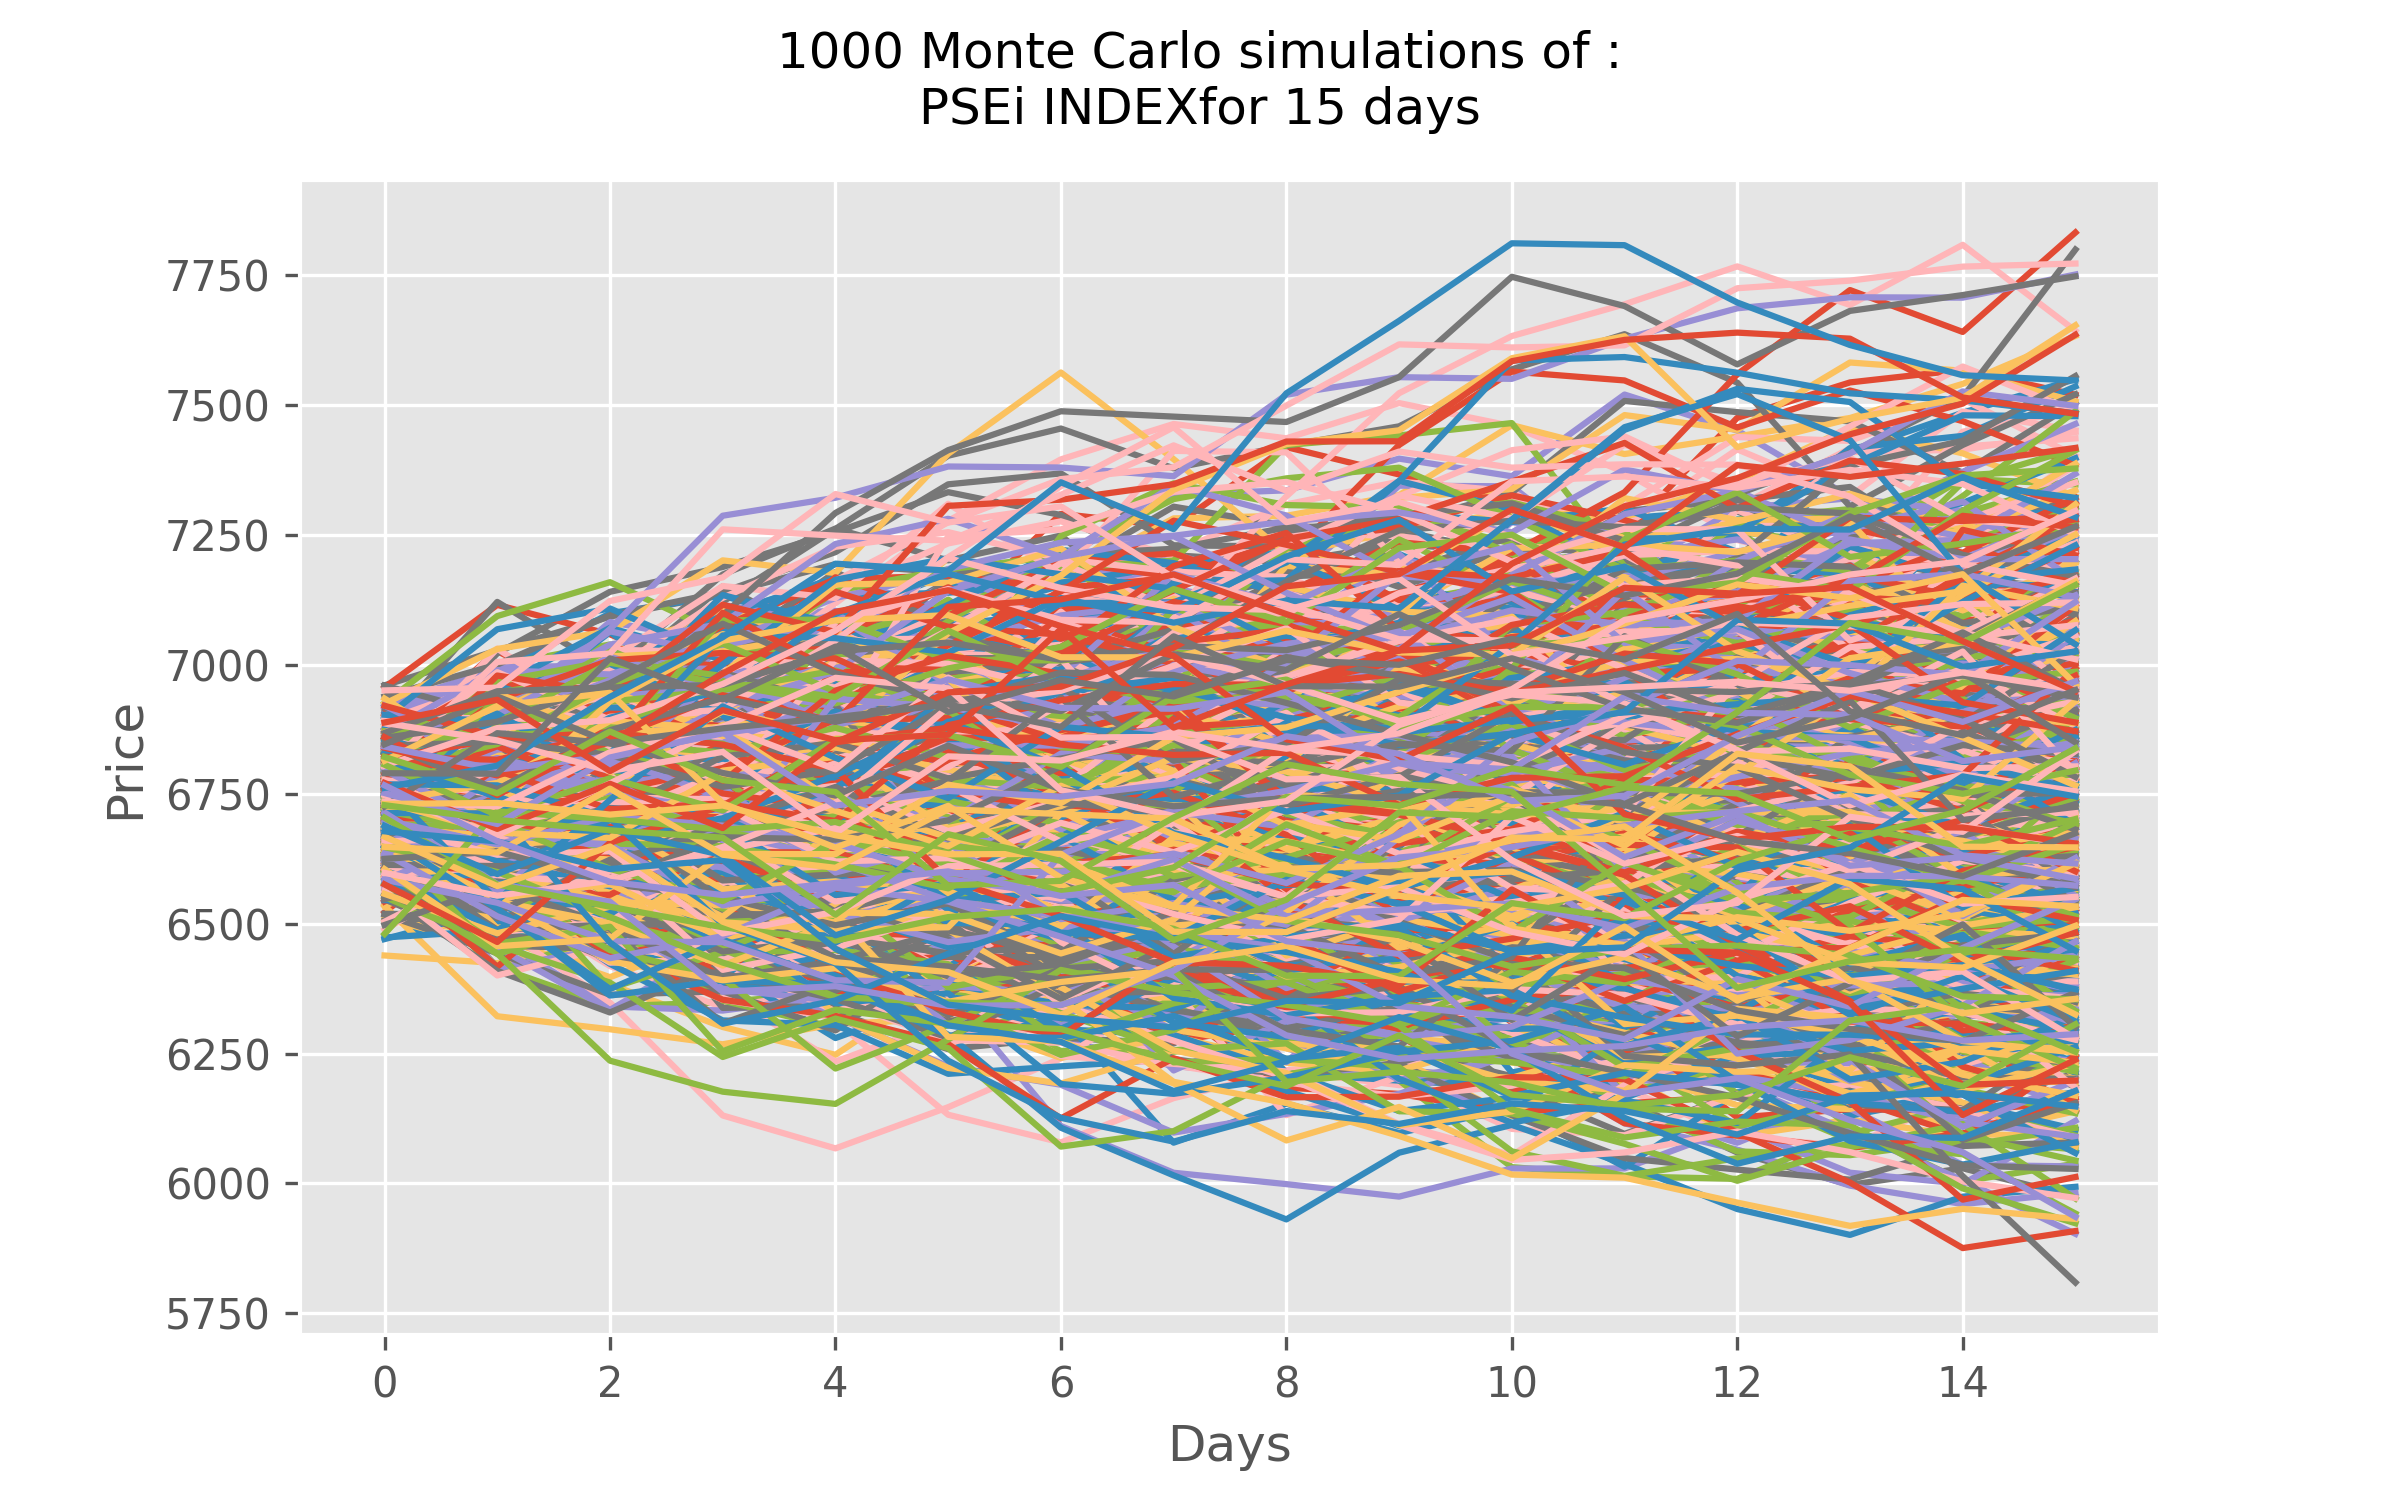
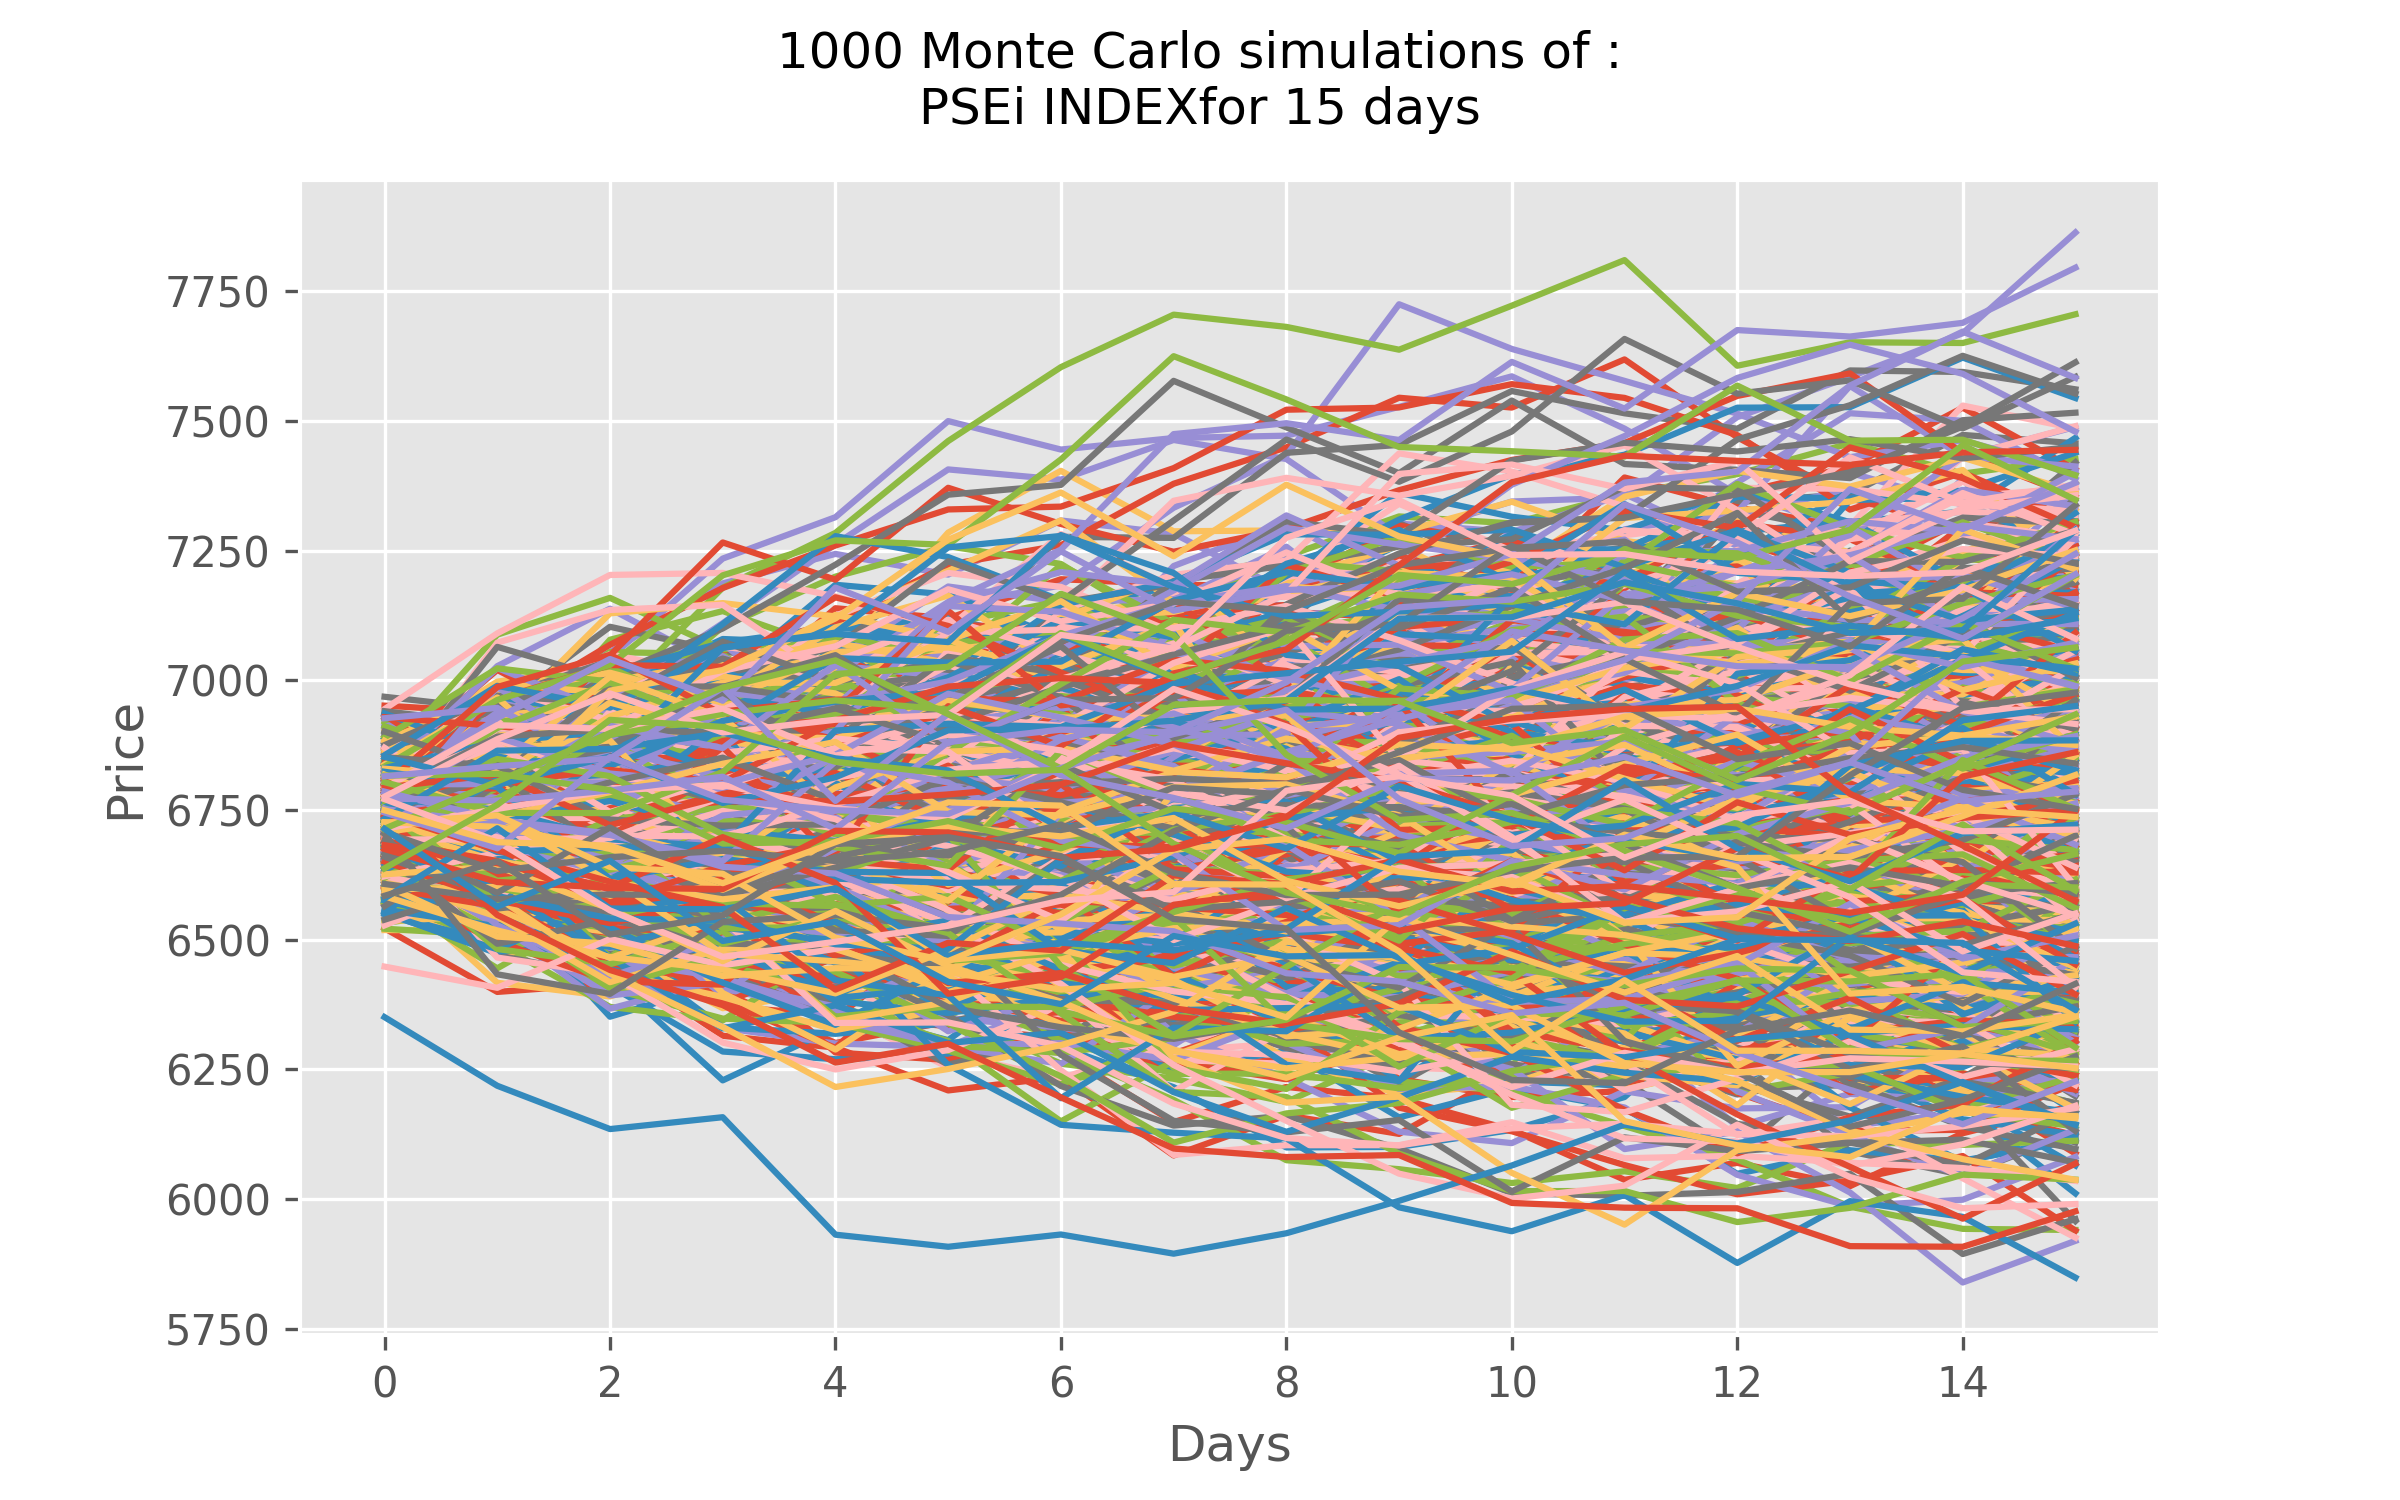
current stock market price as well as ups and downs added

diff --git a/stockApp/templates/stockApp/includes/hero-section.html b/stockApp/templates/stockApp/includes/hero-section.html
@@ -3,9 +3,48 @@
         <h1 class="fs-3">Philippine Stock Exchange Index</h1>
         <h2 class="fs-6 text-secondary">PSEI Portfolio Value</h2>
         <!-- insert the current PSEI value here -->
-        {% comment %} <span class="main-value fs-1 fw-bold">PHP{{ current_price|intcomma }}</span> {% endcomment %}
-        <span class="main-value fs-1 fw-bold">PHP10,000.00</span>
+        {% if current_price%}
+            <span class="main-value fs-1 fw-bold">PHP{{ current_price|intcomma }}</span>
+
+            {% if change_val < 0 %}
+            <div class="d-flex align-items-baseline justify-content-center">
+                <svg
+                  xmlns="http://www.w3.org/2000/svg"
+                  width="16"
+                  height="16"
+                  fill="currentColor"
+                  class="bi bi-arrow-down-circle-fill text-danger"
+                  viewBox="0 0 16 16"
+                >
+                  <path
+                    d="M16 8A8 8 0 1 1 0 8a8 8 0 0 1 16 0zM8.5 4.5a.5.5 0 0 0-1 0v5.793L5.354 8.146a.5.5 0 1 0-.708.708l3 3a.5.5 0 0 0 .708 0l3-3a.5.5 0 0 0-.708-.708L8.5 10.293V4.5z"
+                  />
+                </svg>
+                <p class="text-danger fw-bold">{{ change_pct }}</p>
+              </div>
+            {% else %}
+            <div class="d-flex align-items-baseline justify-content-center">
+                <svg
+                  xmlns="http://www.w3.org/2000/svg"
+                  width="16"
+                  height="16"
+                  fill="currentColor"
+                  class="bi bi-arrow-up-circle-fill text-success"
+                  viewBox="0 0 16 16"
+                >
+                  <path
+                    d="M16 8A8 8 0 1 0 0 8a8 8 0 0 0 16 0zm-7.5 3.5a.5.5 0 0 1-1 0V5.707L5.354 7.854a.5.5 0 1 1-.708-.708l3-3a.5.5 0 0 1 .708 0l3 3a.5.5 0 0 1-.708.708L8.5 5.707V11.5z"
+                  />
+                </svg>
+                <p class="text-success">{{ change_pct }}</p>
+              </div>
+                
+            {% endif %}
+            
+        {% else %}
+            <span class="main-value fs-1 fw-bold">PHP10,000.00</span>
+        {% endif %}
 
         <!-- insert here the current stock prices -->
-        {% include 'stockApp/includes/current-price.html' %}
+        {% comment %} {% include 'stockApp/includes/current-price.html' %} {% endcomment %}
     </section>

diff --git a/stockApp/templates/stockApp/includes/stocks-forecasting.html b/stockApp/templates/stockApp/includes/stocks-forecasting.html
@@ -1,19 +1,47 @@
 {% load static %}
-<section id="stocks-forecasting">
-    <h1 class="fs-3">Stocks Forecasting</h1>
-    <h2 class="fs-6 text-secondary">Monte Carlo Simulation Algorithm</h2>
+<section id="stocks-forecasting" class="border-top border-bottom border-2 border-secondary border-opacity-25 py-4">
+  <h1 class="fs-3">Stocks Forecasting</h1>
+  <h2 class="fs-6 text-secondary">Monte Carlo Simulation Algorithm</h2>
 
-    <div class="stocks-buttons">
-        <form action="" method="POST">
-            {% csrf_token %}
-            <button type="submit" name="update-btn" class="btn btn-dark">Update</button>
-        </form>
-    </div>
+  <div class="stocks-buttons row">
+    <form action="{% url 'stockApp:update-stock' %}" method="POST">
+      {% csrf_token %}
+      <div class="row">
+        <div class="col">
+          <input
+            type="text"
+            class="form-control"
+            placeholder="No. of Days"
+            aria-label="First name"
+            required
+          />
+        </div>
+        <div class="col">
+          <input
+            type="text"
+            class="form-control"
+            placeholder="No. of Simulations"
+            aria-label="Last name"
+            required
+          />
+        </div>
+      </div>
+      <div class="col mt-2 d-grid">
+        <button type="submit" name="update-btn" class="btn btn-dark">
+          Update
+        </button>
+      </div>
+    </form>
+  </div>
 
-    <div class="graph-container py-4">
-        <img src="{% static 'images/graph/forecast_graph.png' %}" alt="forecast-graph" class="img-fluid">
-        <h3>This is the graph</h3>
-    </div>
+  <div class="graph-container py-4">
+    <img
+      src="{% static 'images/graph/forecast_graph.png' %}"
+      alt="forecast-graph"
+      class="img-fluid"
+    />
+    <h3>This is the graph</h3>
+  </div>
 
-    <h4>This is the other graph</h4>
+  <h4>This is the other graph</h4>
 </section>

diff --git a/stockApp/templates/stockApp/includes/current-price.html b/stockApp/templates/stockApp/includes/current-price.html
@@ -17,7 +17,7 @@
             d="M16 8A8 8 0 1 0 0 8a8 8 0 0 0 16 0zm-7.5 3.5a.5.5 0 0 1-1 0V5.707L5.354 7.854a.5.5 0 1 1-.708-.708l3-3a.5.5 0 0 1 .708 0l3 3a.5.5 0 0 1-.708.708L8.5 5.707V11.5z"
           />
         </svg>
-        <p class="fs-2 ms-1 text-success fw-bold">P12,000(50%)</p>
+        <p class="fs-2 ms-1 text-success fw-bold">P6,000</p>
       </div>
     </div>
     <div class="loss col">

diff --git a/stockApp/templates/stockApp/home.html b/stockApp/templates/stockApp/home.html
@@ -7,10 +7,8 @@
     <!-- here goes the Hero Section -->
     {% include 'stockApp/includes/hero-section.html' %}
 
-
     <!-- here goes the Stocks Forecasting Section -->
     {% include 'stockApp/includes/stocks-forecasting.html' %}
-    
 </div>
 
 {% endblock content %}

diff --git a/stockApp/views.py b/stockApp/views.py
@@ -1,4 +1,4 @@
-from django.shortcuts import render
+from django.shortcuts import render, redirect
 # imports for stocks forecasting and graph plotting
 import yfinance as yf
 import datetime as dt
@@ -12,8 +12,21 @@ import os
 
 # this is for the home view
 def home(request):
+    # this function is responsible for current prices
+    ticker_yahoo = yf.Ticker('PSEI.PS')
+    data = ticker_yahoo.history()
+    last_quote = data['Close'].iloc[-1]
+    prev_lastquote = data['Close'].iloc[-2]
+    degree = "(" + str(round(((last_quote - prev_lastquote) / abs(last_quote)) * 100, 2)) + "%)"
+    change_val = round(last_quote - prev_lastquote, 2)
+    change_pct= str(round(last_quote-prev_lastquote,2))+degree
+    context = {
+        'current_price': round(last_quote, 3),
+        'change_pct': change_pct,
+        'change_val': change_val
+    }
 
-    return render(request, 'stockApp/home.html', {})
+    return render(request, 'stockApp/home.html', context)
 
 
 def update_stock(request):
@@ -39,8 +52,9 @@ def update_stock(request):
     last_prices = []  # last price array
     last_price = stock_data['Adj Close'][-1]  # set initial value of the last price
 
-    TOTAL_SIMULATIONS = 10
-    df = pd.DataFrame()
+    TOTAL_SIMULATIONS = 1000
+    # df = pd.DataFrame()
+    temp_frames = []
     for x in range(TOTAL_SIMULATIONS):
         counter = 0
         prices = []
@@ -53,37 +67,50 @@ def update_stock(request):
         for y in range(trading_days):
             if counter > trading_days - 1:
                 break
-            # this code also gets the simulated price using the same method but multiplies the random normal distribution
-            # sample with the elements on the prices array
+            # this code also gets the simulated price using the same method but multiplies the random normal
+            # distribution sample with the elements on the prices array
             price = prices[counter] * (1 + np.random.normal(0, daily_volatility))
             prices.append(price)
             counter += 1
 
-        df[x] = prices
+        # df[x] = prices
+        temp_frame = pd.DataFrame()
+        temp_frame[x] = prices
+        temp_frames.append(temp_frame)
         last_prices.append(prices[-1])
-
+    df = pd.concat(temp_frames,axis=1)
     # this is used for setting the plot
     plt.style.use('ggplot')
-    fig = plt.figure()
     title = str(TOTAL_SIMULATIONS) + " Monte Carlo simulations of :\n" + str(stock_company) + " for " + str(
         trading_days) + " days"
-    fig.suptitle(title)
-    fig.set_figwidth(8)
-    fig.set_figheight(5)
-    plt.plot(df)
-    plt.xlabel('Days')
-    plt.ylabel('Price')
-    # filename = str(TOTAL_SIMULATIONS) + "-" + str(trading_days) + ".png"
-    current_directory = "./static/images/graph"
-    filename = "forecast_graph.png"
-    plt.savefig(os.path.join(current_directory, filename), dpi=300)
-    # plt.show()
+    fig1, ax1 = plt.subplots()
+    ax1.plot(df)
+    ax1.set_title(title)
+    ax1.set_ylabel("Price")
+    ax1.set_xlabel("Days")
+
 
     tickers = [SOURCE]
     for ticker in tickers:
         ticker_yahoo = yf.Ticker(ticker)
         data = ticker_yahoo.history()
         last_quote = data['Close'].iloc[-1]
+
+    plt.axhline(y=last_quote, color='black', linestyle='-')
+    # fig = plt.figure()
+    # title = str(TOTAL_SIMULATIONS) + " Monte Carlo simulations of :\n" + str(stock_company) + " for " + str(
+    #     trading_days) + " days"
+    # fig.suptitle(title)
+    # fig.set_figwidth(8)
+    # fig.set_figheight(5)
+    # plt.plot(df)
+    # plt.xlabel('Days')
+    # plt.ylabel('Price')
+    # filename = str(TOTAL_SIMULATIONS) + "-" + str(trading_days) + ".png"
+    current_directory = "./static/images/graph"
+    filename = "forecast_graph.png"
+    plt.savefig(os.path.join(current_directory, filename), dpi=300)
+    # plt.show()
 
     expected_price = np.mean(last_prices)
     quantile_five = np.percentile(last_prices, 5)
@@ -94,16 +121,24 @@ def update_stock(request):
     print("Quantile (5%): ", quantile_five)
     print("Quantile (95%): ", quantile_ninetyfive)
 
+    # this is to plot the second graph (histogram)
 
-    # this is to plot the second graph
-    plt.hist(last_prices, bins=100)
-    plt.axvline(np.percentile(last_prices, 5), color='r',
-                linestyle='dashed', linewidth=2)
-    plt.axvline(np.percentile(last_prices, 95), color='r',
-                linestyle='dashed', linewidth=2)
+    # fig2, ax2 = plt.subplots()
+    # ax2.hist(last_prices, bins=100, color='#6397ff')
+    # ax2.set_title(title)
+    # ax2.set_ylabel("Price")
+    # ax2.set_xlabel("Days")
+    # plt.axvline(np.percentile(last_prices, 5), color='r', linestyle='dashed', linewidth=2)
+    # plt.axvline(np.percentile(last_prices, 95), color='r', linestyle='dashed', linewidth=2)
+    #
+    # filename = "histogram.png"
+    # plt.savefig(os.path.join(current_directory, filename), dpi=300)
     # plt.show()
 
-    context = {
-        'current_price' : round(last_quote, 3),
-    }
-    return render(request, "simulate activated")
+    # this is the session that will save the data form this function
+    # del request.session['current_price']
+    # request.session['current_price'] = round(last_quote, 2)
+
+    # in this return, redirect the users to the home template
+    return redirect('stockApp:home')
+    
